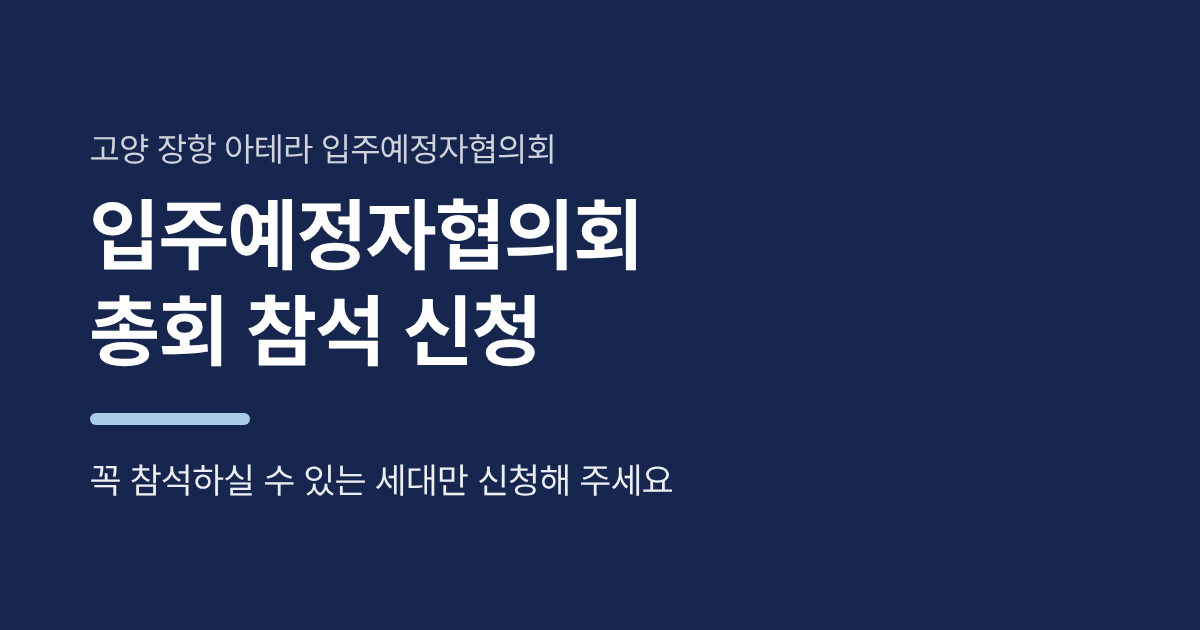
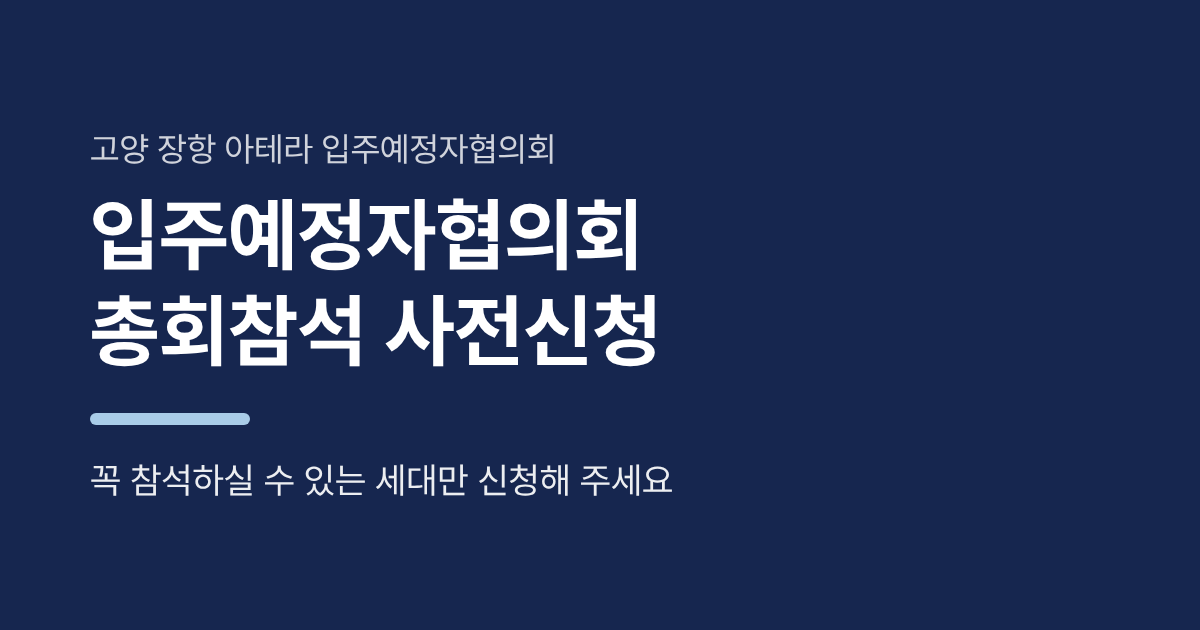
아테라 총회: 제목 「총회참석 사전신청」으로 변경 (화면 · 버튼 · 미리보기 이미지 · 관리자)
Claude-Session: https://claude.ai/code/session_013B34XReFhMktPE2pUURqEZ

Changed region(s): [[0.185, 0.4524, 0.555, 0.6032]]

diff --git a/rsvp.html b/rsvp.html
@@ -3,11 +3,11 @@
 <head>
 <meta charset="utf-8">
 <meta name="viewport" content="width=device-width,initial-scale=1,viewport-fit=cover">
-<title>고양 장항 아테라 입주예정자협의회 총회 참석 신청</title>
-<meta name="description" content="고양 장항 아테라 입주예정자협의회 총회 참석 신청 · 꼭 참석하실 수 있는 세대만 신청해 주세요">
+<title>고양 장항 아테라 입주예정자협의회 총회참석 사전신청</title>
+<meta name="description" content="고양 장항 아테라 입주예정자협의회 총회참석 사전신청 · 꼭 참석하실 수 있는 세대만 신청해 주세요">
 <meta property="og:type" content="website">
-<meta property="og:title" content="고양 장항 아테라 입주예정자협의회 총회 참석 신청">
-<meta property="og:description" content="고양 장항 아테라 입주예정자협의회 총회 참석 신청 · 꼭 참석하실 수 있는 세대만 신청해 주세요">
+<meta property="og:title" content="고양 장항 아테라 입주예정자협의회 총회참석 사전신청">
+<meta property="og:description" content="고양 장항 아테라 입주예정자협의회 총회참석 사전신청 · 꼭 참석하실 수 있는 세대만 신청해 주세요">
 <meta property="og:image" content="https://kingjin77-rgb.github.io/goyang-atera/og-rsvp.png">
 <meta property="og:url" content="https://kingjin77-rgb.github.io/goyang-atera/rsvp.html">
 <meta name="robots" content="noindex">
@@ -292,9 +292,9 @@ function Pad(box){
     o.getContext('2d').drawImage(cv,x0,y0,cw,ch,0,0,o.width,o.height);return o.toDataURL('image/png')}};
 }
 function padHtml(id,label){return '<label class="f">'+label+'</label><div class="pad" id="'+id+'"><canvas></canvas><div class="ph">여기에 손가락으로 서명해 주세요</div><button type="button" class="btn ghost sm clr">다시 쓰기</button></div>'}
-function head(){var rs=C.page==='rsvp';return '<div class="top"><div class="wrap"><div class="org">'+esc(C.org)+'</div><h1>'+(rs?(C.mode==='admin'?'총회 참석 신청 · 관리자':'입주예정자협의회 총회 참석 신청'):(C.mode==='admin'?'명칭 변경 동의서 · 관리자':'아파트 명칭 변경 동의서'))+'</h1>'+
+function head(){var rs=C.page==='rsvp';return '<div class="top"><div class="wrap"><div class="org">'+esc(C.org)+'</div><h1>'+(rs?(C.mode==='admin'?'총회참석 사전신청 · 관리자':'입주예정자협의회 총회참석 사전신청'):(C.mode==='admin'?'명칭 변경 동의서 · 관리자':'아파트 명칭 변경 동의서'))+'</h1>'+
   (C.mode==='admin'?'':'<div class="sub">'+(rs?'꼭 참석하실 수 있는 세대만 신청해 주세요':'온라인으로 작성하고 서명하면 협의회에 바로 제출됩니다')+'</div>')+
-  '<div class="bar"><button type="button" class="chip ins" onclick="Install.ask()"'+(Install.standalone()?' hidden':'')+'>📲 앱 설치</button><a class="chip" href="'+esc(C.cafe)+'" target="_blank" rel="noopener">네이버 카페</a>'+(C.mode==='admin'?'<a class="chip" href="'+esc(C.residentUrl)+'" target="_blank" rel="noopener">입주민 화면</a>'+(rs?'':'<a class="chip" href="rsvp.html" target="_blank" rel="noopener">📣 총회 신청 현황</a>'):'')+'</div></div></div>'}
+  '<div class="bar"><button type="button" class="chip ins" onclick="Install.ask()"'+(Install.standalone()?' hidden':'')+'>📲 앱 설치</button><a class="chip" href="'+esc(C.cafe)+'" target="_blank" rel="noopener">네이버 카페</a>'+(C.mode==='admin'?'<a class="chip" href="'+esc(C.residentUrl)+'" target="_blank" rel="noopener">입주민 화면</a>'+(rs?'':'<a class="chip" href="rsvp.html" target="_blank" rel="noopener">📣 총회참석 사전신청 현황</a>'):'')+'</div></div></div>'}
 function foot(){return '<div class="foot">'+esc(C.org)+' · 운영지원 법무법인 제이엘</div>'}
 
 /* ═════════ 입주민 화면 ═════════ */
@@ -549,7 +549,7 @@ var Install={ev:null,
 window.Install=Install;
 window.JLDeed=deed;   /* 점검용 — 동의서 1장 그리기 */
 Install.init();
-/* ═════════ 총회 참석 신청 (별도 링크 rsvp.html) ═════════ */
+/* ═════════ 총회참석 사전신청 (별도 링크 rsvp.html) ═════════ */
 var RV={};
 function rvInfo(){return '<div class="card"><h2>총회 안내</h2>'+
   '<div class="stmt">본 신청은 <b>사전접수</b>로, 현장에서 사전 접수한 세대 확인 후 입장이 가능합니다. 또한 조사된 인원에 맞춰 장소를 대관하고자 합니다.<br>총회에는 많은 비용이 소요되니 <b>꼭 참석하실 수 있는 세대만</b> 신청해 주셔야 하며, 입주 관련 중요한 사안에 대한 설명회가 진행되오니 각 세대별 꼭 참석해 주시기 바랍니다.</div>'+
@@ -562,7 +562,7 @@ function rvInfo(){return '<div class="card"><h2>총회 안내</h2>'+
 function rvForm(){
   var dongs=Object.keys(L);
   h(head()+'<div class="wrap">'+rvInfo()+
-  '<div class="card"><h2>참석 신청</h2>'+
+  '<div class="card"><h2>사전신청</h2>'+
   '<label class="f">동</label><div class="dongs">'+dongs.map(function(d){return'<button type="button" data-d="'+d+'"'+(RV.dong===d?' class="on"':'')+'>'+d+'동</button>'}).join('')+'</div>'+
   '<label class="f">호수</label><select class="t" id="ho"></select>'+
   '<label class="f">이름</label><input class="t" id="nm" autocomplete="name" maxlength="20" value="'+esc(RV.name)+'">'+
@@ -572,7 +572,7 @@ function rvForm(){
   '<label class="tog"><input type="checkbox" id="su"> 꼭 참석할 수 있습니다</label>'+
   '<div class="pv"><b>수집 항목</b> 동호수, 이름, 연락처, 참석 인원<br><b>이용 목적</b> 총회 참석 인원 파악 및 장소 대관 · 총회 안내 연락<br><b>보관 기간</b> 총회가 끝날 때까지 (끝나면 지체 없이 파기)<br>동의하지 않으실 수 있으나, 이 경우 온라인 신청이 되지 않습니다.</div>'+
   '<label class="tog"><input type="checkbox" id="pv"> 개인정보 수집 · 이용에 동의합니다</label>'+
-  '<div class="err" id="er"></div><button class="btn" id="go">참석 신청하기</button></div>'+
+  '<div class="err" id="er"></div><button class="btn" id="go">사전신청하기</button></div>'+
   '<div class="card"><h2>이미 신청하셨나요?</h2><p class="muted" style="margin:0">참석 인원을 바꾸거나 신청을 취소할 수 있습니다.</p><button class="btn ghost" id="mine">내 신청 확인 · 변경 · 취소</button></div>'+foot()+'</div>');
   $('#mine').onclick=function(){rvMine()};
   function fillHo(){var x=$('#ho');if(!RV.dong){x.innerHTML='<option value="">동을 먼저 고르세요</option>';x.disabled=true;return}
@@ -589,8 +589,8 @@ function rvForm(){
     if(!$('#pv').checked)return er.textContent='개인정보 수집 · 이용에 동의해 주셔야 신청할 수 있습니다';
     RV.ho=ho;RV.name=nm;RV.phone=ph;RV.count=cn;b.disabled=true;b.textContent='신청 중…';er.textContent='';
     post('/rsvp',{dong:RV.dong,ho:ho,name:nm,phone:ph,count:cn,sure:true,privacy:true}).then(function(j){
-      if(!j.ok){b.disabled=false;b.textContent='참석 신청하기';er.textContent=j._s===404?'신청 접수 준비 중입니다. 잠시 후 다시 시도해 주세요':j.message;return}
-      rvDone('참석 신청되었습니다',RV.dong+'동 '+ho+'호 · '+nm+' · '+cn+'명',j.no);
+      if(!j.ok){b.disabled=false;b.textContent='사전신청하기';er.textContent=j._s===404?'신청 접수 준비 중입니다. 잠시 후 다시 시도해 주세요':j.message;return}
+      rvDone('사전신청되었습니다',RV.dong+'동 '+ho+'호 · '+nm+' · '+cn+'명',j.no);
     });
   };
 }
@@ -630,7 +630,7 @@ function rvMineEdit(r){
   $('#bk').onclick=function(){rvForm()};
   $('#chg').onclick=function(){var b=this,cn=+$('#cn').value;if(cn===+r.count)return $('#er').textContent='지금과 같은 인원입니다';b.disabled=true;
     post('/rsvp-edit',{dong:r.dong,ho:r.ho,phone:MY.phone,count:cn}).then(function(j){b.disabled=false;if(!j.ok)return $('#er').textContent=j.message;rvDone('참석 인원이 변경되었습니다',r.dong+'동 '+r.ho+'호 · '+r.name+' · '+cn+'명',j.no)})};
-  $('#cx').onclick=function(){if(!confirm(r.dong+'동 '+r.ho+'호 총회 참석 신청을 취소할까요?'))return;var b=this;b.disabled=true;
+  $('#cx').onclick=function(){if(!confirm(r.dong+'동 '+r.ho+'호 총회참석 사전신청을 취소할까요?'))return;var b=this;b.disabled=true;
     post('/rsvp-edit',{dong:r.dong,ho:r.ho,phone:MY.phone,cancel:true}).then(function(j){b.disabled=false;if(!j.ok)return $('#er').textContent=j.message;
       h(head()+'<div class="wrap"><div class="card done"><div class="ic" style="background:#6A7385">✕</div><h2>신청이 취소되었습니다</h2><p class="muted">'+esc(r.dong+'동 '+r.ho+'호')+'</p><button class="btn ghost" id="again">다시 신청하기</button></div>'+foot()+'</div>');$('#again').onclick=function(){RV={};rvForm()}})};
 }
@@ -680,7 +680,7 @@ function rvCsv(){
   var q=function(v){v=String(v==null?'':v);if(/^[=+\-@]/.test(v))v="'"+v;return'"'+v.replace(/"/g,'""')+'"'};
   var lines=[['접수번호','동','호','이름','연락처','참석 인원','신청일시','상태'].map(q).join(',')].concat(r.map(function(x){return[x.no,x.dong,x.ho,x.name,x.phone,x.count,x.at,x.cancel?'본인 취소':x.changed?'변경 전':x.void?'무효':x.dup?'이전 신청':'유효'].map(q).join(',')}));
   var blob=new Blob([''+lines.join('\r\n')],{type:'text/csv;charset=utf-8'}),a=document.createElement('a');
-  a.href=URL.createObjectURL(blob);a.download='총회참석신청_'+C.short+'_'+today()+'.csv';document.body.appendChild(a);a.click();setTimeout(function(){URL.revokeObjectURL(a.href);a.remove()},500);
+  a.href=URL.createObjectURL(blob);a.download='총회참석사전신청_'+C.short+'_'+today()+'.csv';document.body.appendChild(a);a.click();setTimeout(function(){URL.revokeObjectURL(a.href);a.remove()},500);
 }
 if(C.page==='rsvp'){if(C.mode==='admin')rvLogin();else rvForm()}
 else if(C.mode==='admin')login();else intro();

diff --git a/index.html b/index.html
@@ -292,9 +292,9 @@ function Pad(box){
     o.getContext('2d').drawImage(cv,x0,y0,cw,ch,0,0,o.width,o.height);return o.toDataURL('image/png')}};
 }
 function padHtml(id,label){return '<label class="f">'+label+'</label><div class="pad" id="'+id+'"><canvas></canvas><div class="ph">여기에 손가락으로 서명해 주세요</div><button type="button" class="btn ghost sm clr">다시 쓰기</button></div>'}
-function head(){var rs=C.page==='rsvp';return '<div class="top"><div class="wrap"><div class="org">'+esc(C.org)+'</div><h1>'+(rs?(C.mode==='admin'?'총회 참석 신청 · 관리자':'입주예정자협의회 총회 참석 신청'):(C.mode==='admin'?'명칭 변경 동의서 · 관리자':'아파트 명칭 변경 동의서'))+'</h1>'+
+function head(){var rs=C.page==='rsvp';return '<div class="top"><div class="wrap"><div class="org">'+esc(C.org)+'</div><h1>'+(rs?(C.mode==='admin'?'총회참석 사전신청 · 관리자':'입주예정자협의회 총회참석 사전신청'):(C.mode==='admin'?'명칭 변경 동의서 · 관리자':'아파트 명칭 변경 동의서'))+'</h1>'+
   (C.mode==='admin'?'':'<div class="sub">'+(rs?'꼭 참석하실 수 있는 세대만 신청해 주세요':'온라인으로 작성하고 서명하면 협의회에 바로 제출됩니다')+'</div>')+
-  '<div class="bar"><button type="button" class="chip ins" onclick="Install.ask()"'+(Install.standalone()?' hidden':'')+'>📲 앱 설치</button><a class="chip" href="'+esc(C.cafe)+'" target="_blank" rel="noopener">네이버 카페</a>'+(C.mode==='admin'?'<a class="chip" href="'+esc(C.residentUrl)+'" target="_blank" rel="noopener">입주민 화면</a>'+(rs?'':'<a class="chip" href="rsvp.html" target="_blank" rel="noopener">📣 총회 신청 현황</a>'):'')+'</div></div></div>'}
+  '<div class="bar"><button type="button" class="chip ins" onclick="Install.ask()"'+(Install.standalone()?' hidden':'')+'>📲 앱 설치</button><a class="chip" href="'+esc(C.cafe)+'" target="_blank" rel="noopener">네이버 카페</a>'+(C.mode==='admin'?'<a class="chip" href="'+esc(C.residentUrl)+'" target="_blank" rel="noopener">입주민 화면</a>'+(rs?'':'<a class="chip" href="rsvp.html" target="_blank" rel="noopener">📣 총회참석 사전신청 현황</a>'):'')+'</div></div></div>'}
 function foot(){return '<div class="foot">'+esc(C.org)+' · 운영지원 법무법인 제이엘</div>'}
 
 /* ═════════ 입주민 화면 ═════════ */
@@ -549,7 +549,7 @@ var Install={ev:null,
 window.Install=Install;
 window.JLDeed=deed;   /* 점검용 — 동의서 1장 그리기 */
 Install.init();
-/* ═════════ 총회 참석 신청 (별도 링크 rsvp.html) ═════════ */
+/* ═════════ 총회참석 사전신청 (별도 링크 rsvp.html) ═════════ */
 var RV={};
 function rvInfo(){return '<div class="card"><h2>총회 안내</h2>'+
   '<div class="stmt">본 신청은 <b>사전접수</b>로, 현장에서 사전 접수한 세대 확인 후 입장이 가능합니다. 또한 조사된 인원에 맞춰 장소를 대관하고자 합니다.<br>총회에는 많은 비용이 소요되니 <b>꼭 참석하실 수 있는 세대만</b> 신청해 주셔야 하며, 입주 관련 중요한 사안에 대한 설명회가 진행되오니 각 세대별 꼭 참석해 주시기 바랍니다.</div>'+
@@ -562,7 +562,7 @@ function rvInfo(){return '<div class="card"><h2>총회 안내</h2>'+
 function rvForm(){
   var dongs=Object.keys(L);
   h(head()+'<div class="wrap">'+rvInfo()+
-  '<div class="card"><h2>참석 신청</h2>'+
+  '<div class="card"><h2>사전신청</h2>'+
   '<label class="f">동</label><div class="dongs">'+dongs.map(function(d){return'<button type="button" data-d="'+d+'"'+(RV.dong===d?' class="on"':'')+'>'+d+'동</button>'}).join('')+'</div>'+
   '<label class="f">호수</label><select class="t" id="ho"></select>'+
   '<label class="f">이름</label><input class="t" id="nm" autocomplete="name" maxlength="20" value="'+esc(RV.name)+'">'+
@@ -572,7 +572,7 @@ function rvForm(){
   '<label class="tog"><input type="checkbox" id="su"> 꼭 참석할 수 있습니다</label>'+
   '<div class="pv"><b>수집 항목</b> 동호수, 이름, 연락처, 참석 인원<br><b>이용 목적</b> 총회 참석 인원 파악 및 장소 대관 · 총회 안내 연락<br><b>보관 기간</b> 총회가 끝날 때까지 (끝나면 지체 없이 파기)<br>동의하지 않으실 수 있으나, 이 경우 온라인 신청이 되지 않습니다.</div>'+
   '<label class="tog"><input type="checkbox" id="pv"> 개인정보 수집 · 이용에 동의합니다</label>'+
-  '<div class="err" id="er"></div><button class="btn" id="go">참석 신청하기</button></div>'+
+  '<div class="err" id="er"></div><button class="btn" id="go">사전신청하기</button></div>'+
   '<div class="card"><h2>이미 신청하셨나요?</h2><p class="muted" style="margin:0">참석 인원을 바꾸거나 신청을 취소할 수 있습니다.</p><button class="btn ghost" id="mine">내 신청 확인 · 변경 · 취소</button></div>'+foot()+'</div>');
   $('#mine').onclick=function(){rvMine()};
   function fillHo(){var x=$('#ho');if(!RV.dong){x.innerHTML='<option value="">동을 먼저 고르세요</option>';x.disabled=true;return}
@@ -589,8 +589,8 @@ function rvForm(){
     if(!$('#pv').checked)return er.textContent='개인정보 수집 · 이용에 동의해 주셔야 신청할 수 있습니다';
     RV.ho=ho;RV.name=nm;RV.phone=ph;RV.count=cn;b.disabled=true;b.textContent='신청 중…';er.textContent='';
     post('/rsvp',{dong:RV.dong,ho:ho,name:nm,phone:ph,count:cn,sure:true,privacy:true}).then(function(j){
-      if(!j.ok){b.disabled=false;b.textContent='참석 신청하기';er.textContent=j._s===404?'신청 접수 준비 중입니다. 잠시 후 다시 시도해 주세요':j.message;return}
-      rvDone('참석 신청되었습니다',RV.dong+'동 '+ho+'호 · '+nm+' · '+cn+'명',j.no);
+      if(!j.ok){b.disabled=false;b.textContent='사전신청하기';er.textContent=j._s===404?'신청 접수 준비 중입니다. 잠시 후 다시 시도해 주세요':j.message;return}
+      rvDone('사전신청되었습니다',RV.dong+'동 '+ho+'호 · '+nm+' · '+cn+'명',j.no);
     });
   };
 }
@@ -630,7 +630,7 @@ function rvMineEdit(r){
   $('#bk').onclick=function(){rvForm()};
   $('#chg').onclick=function(){var b=this,cn=+$('#cn').value;if(cn===+r.count)return $('#er').textContent='지금과 같은 인원입니다';b.disabled=true;
     post('/rsvp-edit',{dong:r.dong,ho:r.ho,phone:MY.phone,count:cn}).then(function(j){b.disabled=false;if(!j.ok)return $('#er').textContent=j.message;rvDone('참석 인원이 변경되었습니다',r.dong+'동 '+r.ho+'호 · '+r.name+' · '+cn+'명',j.no)})};
-  $('#cx').onclick=function(){if(!confirm(r.dong+'동 '+r.ho+'호 총회 참석 신청을 취소할까요?'))return;var b=this;b.disabled=true;
+  $('#cx').onclick=function(){if(!confirm(r.dong+'동 '+r.ho+'호 총회참석 사전신청을 취소할까요?'))return;var b=this;b.disabled=true;
     post('/rsvp-edit',{dong:r.dong,ho:r.ho,phone:MY.phone,cancel:true}).then(function(j){b.disabled=false;if(!j.ok)return $('#er').textContent=j.message;
       h(head()+'<div class="wrap"><div class="card done"><div class="ic" style="background:#6A7385">✕</div><h2>신청이 취소되었습니다</h2><p class="muted">'+esc(r.dong+'동 '+r.ho+'호')+'</p><button class="btn ghost" id="again">다시 신청하기</button></div>'+foot()+'</div>');$('#again').onclick=function(){RV={};rvForm()}})};
 }
@@ -680,7 +680,7 @@ function rvCsv(){
   var q=function(v){v=String(v==null?'':v);if(/^[=+\-@]/.test(v))v="'"+v;return'"'+v.replace(/"/g,'""')+'"'};
   var lines=[['접수번호','동','호','이름','연락처','참석 인원','신청일시','상태'].map(q).join(',')].concat(r.map(function(x){return[x.no,x.dong,x.ho,x.name,x.phone,x.count,x.at,x.cancel?'본인 취소':x.changed?'변경 전':x.void?'무효':x.dup?'이전 신청':'유효'].map(q).join(',')}));
   var blob=new Blob([''+lines.join('\r\n')],{type:'text/csv;charset=utf-8'}),a=document.createElement('a');
-  a.href=URL.createObjectURL(blob);a.download='총회참석신청_'+C.short+'_'+today()+'.csv';document.body.appendChild(a);a.click();setTimeout(function(){URL.revokeObjectURL(a.href);a.remove()},500);
+  a.href=URL.createObjectURL(blob);a.download='총회참석사전신청_'+C.short+'_'+today()+'.csv';document.body.appendChild(a);a.click();setTimeout(function(){URL.revokeObjectURL(a.href);a.remove()},500);
 }
 if(C.page==='rsvp'){if(C.mode==='admin')rvLogin();else rvForm()}
 else if(C.mode==='admin')login();else intro();

diff --git a/sw.js b/sw.js
@@ -1,6 +1,6 @@
 /* 입주예정자협의회 플랫폼 — 서비스 워커
    화면을 기기에 담아두어, 신호가 약한 곳에서도 즉시 열리게 합니다. */
-var CACHE = 'jl-goyang-atera-202610231028';
+var CACHE = 'jl-goyang-atera-202610231140';
 var SHELL = ['./', './index.html', './icon-192.png', './icon-512.png', './rsvp.html', './fonts/Pretendard-Regular.subset.woff2', './manifest.json'];
 
 self.addEventListener('install', function (e) {
